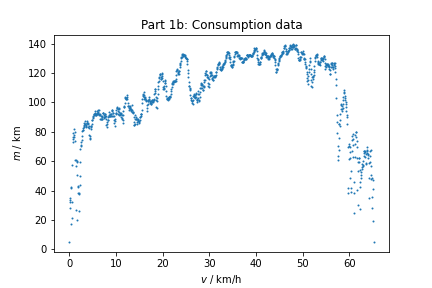
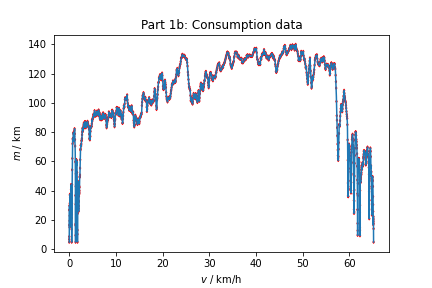
hihi

Changed region(s): [[0.1505, 0.125, 0.8727, 0.8438], [0.0602, 0.2188, 0.1204, 0.2812], [0.0602, 0.3438, 0.1204, 0.375]]

diff --git a/roadster/script_part1b.py b/roadster/script_part1b.py
@@ -5,9 +5,10 @@ import matplotlib.pyplot as plt
 
 def plot(name):
     distance_km, speed_kmph = load_route(f'{name}')
-    position = np.linspace(0, max(distance_km), 1000)
+    position = np.linspace(0, max(distance_km), 100000)
     speed=velocity(position,'speed_anna')
-    plt.plot(position, speed,'o' ,markersize=1)
+    plt.plot(position, speed, '-', markersize = 1)
+    plt.scatter(distance_km, speed_kmph, s = [3]*len(speed_kmph), marker = 'd', color = 'r')
     plt.xlabel(r'$v$ / km/h')
     plt.ylabel(r'$m$ / km')
     plt.title('Part 1b: Consumption data')
